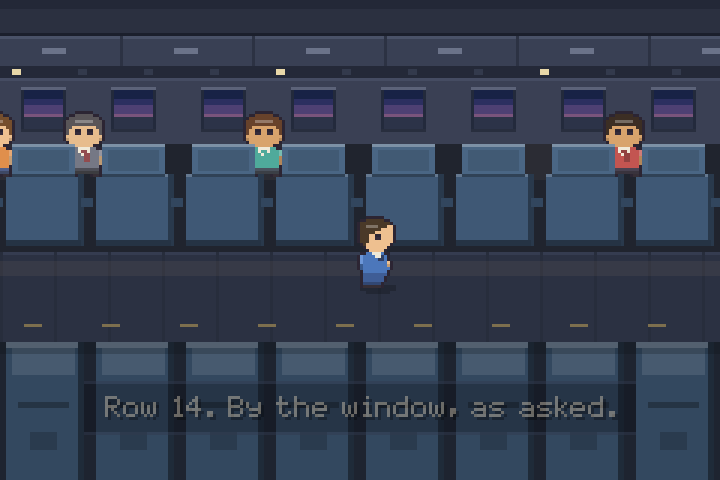
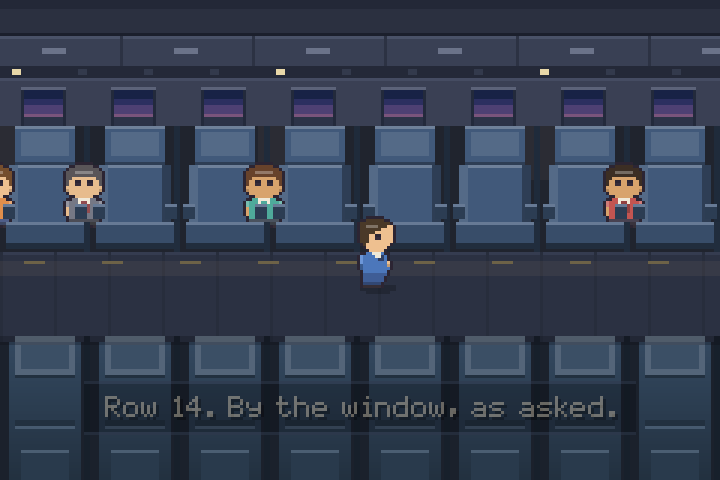
Rebuild the cabin seats so passengers sit in them
The whole far row was drawn behind the passengers in one pass, which put a
featureless slab under everyone and read as a wall rather than as seating.

- The far row is now drawn in two passes with the passenger between them:
  headrest and back behind, cushion and armrests in front of their lap. That
  is what makes someone look seated rather than pasted on.
- Seats gained form: a headrest proud of the back with its own cover, a lit
  bolster on one side and a shadowed one on the other, and a real seam and
  gap between seats. At 26 wide on a 30 pitch they had been butting together.
- The nearest row, seen from behind, was a flat fill that read as lockers. It
  now carries a top-to-bottom gradient, a headrest, a tray seam and a pocket.
- Passengers sit lower so the headrest is behind the head, not through it.
- Aisle strip lighting sat on the lip of the near seats and read as labels on
  them; moved down to the skirting.

diff --git a/dist/rhubarb.html b/dist/rhubarb.html
@@ -3012,7 +3012,7 @@
     // A cabin reads from three bands stacked in depth: portholes behind, a
     // row of headrests with people in them, and the backs of the row nearest
     // camera closing off the bottom of the frame. The aisle is the gap.
-    var BINS = 12, WIN = 26, HEAD = 48, BACK = 58, AISLE = 84, NEAR = 114;
+    var BINS = 12, WIN = 26, HEAD = 42, BACK = 55, AISLE = 84, NEAR = 114;
     var MY_SEAT = 322;
     var PITCH = 30;              // seat pitch, in px
 
@@ -3043,7 +3043,7 @@
     };
 
     function seated(x, pal) {
-      return new RB.Actor({ x: x, y: 41, pal: pal, dir: 'down', sitting: true, shadow: false });
+      return new RB.Actor({ x: x, y: 58, pal: pal, dir: 'down', sitting: true, shadow: false });
     }
 
     s.p = function () { return player; };
@@ -3071,7 +3071,7 @@
         script = new RB.Script(function* () {
           yield RB.call(function () {
             player.sitting = true; player.moving = false; player.dir = 'down';
-            player.x = MY_SEAT; player.y = 41; player.shadow = false;
+            player.x = MY_SEAT; player.y = 58; player.shadow = false;
           });
           yield RB.wait(1.6);
           yield RB.captionFor('You put your head against the glass.', 4.6, 132);
@@ -3127,14 +3127,15 @@
         RB.wrect(px - 1, WIN + 17, 15, 1, '#282e3e');
       }
 
-      // Far row: seat backs with headrests. Passengers are drawn between the
-      // back and the headrest so they sit *in* the seats.
-      farBacks(x0, w);
-      var vis = cast.concat(s.seated ? [] : []);
+      // Far row, seen from the front: shell behind, then the passenger, then
+      // the cushion and armrests in front of their lap. Two passes is what
+      // makes them sit *in* the seat instead of on a slab.
+      farShells(x0, w);
+      var vis = cast.slice();
+      if (s.seated) vis.push(player);
       vis.sort(function (a, b) { return a.x - b.x; });
       vis.forEach(function (a) { a.draw(P.warm4, 0.10); });
-      if (s.seated) player.draw(P.warm4, 0.10);
-      farHeadrests(x0, w);
+      farFronts(x0, w);
 
       // Aisle.
       RB.wrect(x0, AISLE, w, NEAR - AISLE, '#2b3142');
@@ -3143,9 +3144,9 @@
       RB.ctx.globalAlpha = 0.07;
       RB.wrect(x0, AISLE + 3, w, 5, P.warm4);
       RB.ctx.globalAlpha = 1;
-      // Aisle floor strip lighting, low down where it actually is.
+      // Aisle floor strip lighting, down at the skirting where it belongs.
       for (var sx2 = Math.floor(x0 / 26) * 26; sx2 < x0 + w; sx2 += 26) {
-        RB.wrect(sx2 + 6, NEAR - 6, 6, 1, '#7d6f4e');
+        RB.wrect(sx2 + 6, AISLE + 3, 7, 1, '#6d6247');
       }
 
       if (!s.seated) {
@@ -3163,40 +3164,64 @@
       if (s.prompt && !RB.dialog.active()) RB.drawPrompt(MY_SEAT + 6, HEAD - 22, 'Z  sit');
     };
 
-    function farBacks(x0, w) {
-      var c = '#3f5875';
+    // Seat fabric. Three tones plus a seam, and a gap between seats — at
+    // 26 wide on a 30 pitch they used to butt together into a wall.
+    var FAR = '#41597a', NEARC = '#33485f';
+
+    function farShells(x0, w) {
+      var c = FAR, hi = RB.shade(c, 0.24), lo = RB.shade(c, -0.30), seam = RB.shade(c, -0.52);
       for (var x = Math.floor(x0 / PITCH) * PITCH; x < x0 + w; x += PITCH) {
-        RB.wrect(x + 2, BACK, 25, AISLE - BACK - 2, c);
-        RB.wrect(x + 2, BACK, 25, 1, RB.shade(c, 0.20));
-        RB.wrect(x + 26, BACK, 2, AISLE - BACK - 2, RB.shade(c, -0.35));
-        RB.wrect(x + 2, AISLE - 4, 25, 2, RB.shade(c, -0.42));   // seat base
-        RB.wrect(x + 27, BACK + 8, 4, 3, RB.shade(c, -0.2));     // armrest
+        // Headrest, sitting proud of the back with its own cover.
+        RB.wrect(x + 5, HEAD, 20, 13, c);
+        RB.wrect(x + 5, HEAD, 20, 1, hi);
+        RB.wrect(x + 7, HEAD + 2, 16, 8, RB.shade(c, 0.10));
+        RB.wrect(x + 5, HEAD + 12, 20, 1, lo);
+        // Back, with a lit bolster on one side and a shadowed one on the other.
+        RB.wrect(x + 3, BACK, 24, 22, c);
+        RB.wrect(x + 3, BACK, 24, 1, hi);
+        RB.wrect(x + 3, BACK, 3, 22, RB.shade(c, 0.10));
+        RB.wrect(x + 24, BACK, 3, 22, lo);
+        RB.wrect(x + 28, HEAD, 2, AISLE - HEAD, seam);
       }
     }
 
-    function farHeadrests(x0, w) {
-      var c = '#4a6684';
+    function farFronts(x0, w) {
+      var c = FAR, hi = RB.shade(c, 0.20), lo = RB.shade(c, -0.32), lo2 = RB.shade(c, -0.50);
       for (var x = Math.floor(x0 / PITCH) * PITCH; x < x0 + w; x += PITCH) {
-        RB.wrect(x + 4, HEAD, 21, 11, c);
-        RB.wrect(x + 4, HEAD, 21, 1, RB.shade(c, 0.28));
-        RB.wrect(x + 4, HEAD + 10, 21, 1, RB.shade(c, -0.35));
-        RB.wrect(x + 6, HEAD + 2, 17, 7, RB.shade(c, -0.12));    // antimacassar
+        // Seat cushion across the lap, then the armrests either side.
+        RB.wrect(x + 2, 74, 26, 8, RB.shade(c, -0.14));
+        RB.wrect(x + 2, 74, 26, 1, hi);
+        RB.wrect(x + 2, 81, 26, 2, lo2);
+        RB.wrect(x + 1, 68, 4, 5, lo);
+        RB.wrect(x + 1, 68, 4, 1, hi);
+        RB.wrect(x + 25, 68, 4, 5, lo);
+        RB.wrect(x + 25, 68, 4, 1, hi);
+        RB.wrect(x + 28, 74, 2, 10, lo2);
       }
     }
 
+    // The nearest row, from behind. A flat fill read as lockers, so the back
+    // carries a top-to-bottom gradient, a tray seam and a pocket.
     function nearBacks(x0, w) {
-      var c = '#33485f';
-      RB.wrect(x0, NEAR, w, RB.H - NEAR, '#1e2430');
+      var c = NEARC, hi = RB.shade(c, 0.26), lo = RB.shade(c, -0.34), seam = RB.shade(c, -0.55);
+      var h = RB.H - NEAR;
+      RB.wrect(x0, NEAR, w, h, '#1b212c');
       for (var x = Math.floor(x0 / PITCH) * PITCH; x < x0 + w; x += PITCH) {
-        RB.wrect(x + 2, NEAR, 25, RB.H - NEAR, c);
-        RB.wrect(x + 2, NEAR, 25, 2, RB.shade(c, 0.26));          // headrest top
-        RB.wrect(x + 4, NEAR + 2, 21, 9, RB.shade(c, 0.10));
-        RB.wrect(x + 26, NEAR, 2, RB.H - NEAR, RB.shade(c, -0.4));
-        RB.wrect(x + 6, NEAR + 20, 17, 2, RB.shade(c, -0.28));    // tray latch
-        RB.wrect(x + 10, NEAR + 30, 9, 6, RB.shade(c, -0.18));    // seat pocket
+        for (var i = 0; i < h; i++) {
+          RB.wrect(x + 3, NEAR + i, 24, 1, RB.mix(c, RB.shade(c, -0.34), i / h));
+        }
+        RB.wrect(x + 5, NEAR - 2, 20, 14, RB.shade(c, 0.16));      // headrest
+        RB.wrect(x + 5, NEAR - 2, 20, 2, hi);
+        RB.wrect(x + 7, NEAR + 1, 16, 8, RB.shade(c, 0.04));       // cover
+        RB.wrect(x + 5, NEAR + 11, 20, 1, lo);
+        RB.wrect(x + 5, NEAR + 26, 20, 2, lo);                     // tray seam
+        RB.wrect(x + 5, NEAR + 28, 20, 1, RB.shade(c, 0.10));
+        RB.wrect(x + 7, NEAR + 36, 16, 10, RB.shade(c, -0.20));    // seat pocket
+        RB.wrect(x + 7, NEAR + 36, 16, 1, RB.shade(c, 0.12));
+        RB.wrect(x + 28, NEAR - 2, 2, h + 2, seam);
       }
-      RB.ctx.globalAlpha = 0.22;
-      RB.wrect(x0, NEAR, w, 4, '#0b0d14');
+      RB.ctx.globalAlpha = 0.26;
+      RB.wrect(x0, NEAR - 2, w, 3, '#0b0d14');
       RB.ctx.globalAlpha = 1;
     }
 

diff --git a/src/scenes_flight.js b/src/scenes_flight.js
@@ -11,7 +11,7 @@
     // A cabin reads from three bands stacked in depth: portholes behind, a
     // row of headrests with people in them, and the backs of the row nearest
     // camera closing off the bottom of the frame. The aisle is the gap.
-    var BINS = 12, WIN = 26, HEAD = 48, BACK = 58, AISLE = 84, NEAR = 114;
+    var BINS = 12, WIN = 26, HEAD = 42, BACK = 55, AISLE = 84, NEAR = 114;
     var MY_SEAT = 322;
     var PITCH = 30;              // seat pitch, in px
 
@@ -42,7 +42,7 @@
     };
 
     function seated(x, pal) {
-      return new RB.Actor({ x: x, y: 41, pal: pal, dir: 'down', sitting: true, shadow: false });
+      return new RB.Actor({ x: x, y: 58, pal: pal, dir: 'down', sitting: true, shadow: false });
     }
 
     s.p = function () { return player; };
@@ -70,7 +70,7 @@
         script = new RB.Script(function* () {
           yield RB.call(function () {
             player.sitting = true; player.moving = false; player.dir = 'down';
-            player.x = MY_SEAT; player.y = 41; player.shadow = false;
+            player.x = MY_SEAT; player.y = 58; player.shadow = false;
           });
           yield RB.wait(1.6);
           yield RB.captionFor('You put your head against the glass.', 4.6, 132);
@@ -126,14 +126,15 @@
         RB.wrect(px - 1, WIN + 17, 15, 1, '#282e3e');
       }
 
-      // Far row: seat backs with headrests. Passengers are drawn between the
-      // back and the headrest so they sit *in* the seats.
-      farBacks(x0, w);
-      var vis = cast.concat(s.seated ? [] : []);
+      // Far row, seen from the front: shell behind, then the passenger, then
+      // the cushion and armrests in front of their lap. Two passes is what
+      // makes them sit *in* the seat instead of on a slab.
+      farShells(x0, w);
+      var vis = cast.slice();
+      if (s.seated) vis.push(player);
       vis.sort(function (a, b) { return a.x - b.x; });
       vis.forEach(function (a) { a.draw(P.warm4, 0.10); });
-      if (s.seated) player.draw(P.warm4, 0.10);
-      farHeadrests(x0, w);
+      farFronts(x0, w);
 
       // Aisle.
       RB.wrect(x0, AISLE, w, NEAR - AISLE, '#2b3142');
@@ -142,9 +143,9 @@
       RB.ctx.globalAlpha = 0.07;
       RB.wrect(x0, AISLE + 3, w, 5, P.warm4);
       RB.ctx.globalAlpha = 1;
-      // Aisle floor strip lighting, low down where it actually is.
+      // Aisle floor strip lighting, down at the skirting where it belongs.
       for (var sx2 = Math.floor(x0 / 26) * 26; sx2 < x0 + w; sx2 += 26) {
-        RB.wrect(sx2 + 6, NEAR - 6, 6, 1, '#7d6f4e');
+        RB.wrect(sx2 + 6, AISLE + 3, 7, 1, '#6d6247');
       }
 
       if (!s.seated) {
@@ -162,40 +163,64 @@
       if (s.prompt && !RB.dialog.active()) RB.drawPrompt(MY_SEAT + 6, HEAD - 22, 'Z  sit');
     };
 
-    function farBacks(x0, w) {
-      var c = '#3f5875';
+    // Seat fabric. Three tones plus a seam, and a gap between seats — at
+    // 26 wide on a 30 pitch they used to butt together into a wall.
+    var FAR = '#41597a', NEARC = '#33485f';
+
+    function farShells(x0, w) {
+      var c = FAR, hi = RB.shade(c, 0.24), lo = RB.shade(c, -0.30), seam = RB.shade(c, -0.52);
       for (var x = Math.floor(x0 / PITCH) * PITCH; x < x0 + w; x += PITCH) {
-        RB.wrect(x + 2, BACK, 25, AISLE - BACK - 2, c);
-        RB.wrect(x + 2, BACK, 25, 1, RB.shade(c, 0.20));
-        RB.wrect(x + 26, BACK, 2, AISLE - BACK - 2, RB.shade(c, -0.35));
-        RB.wrect(x + 2, AISLE - 4, 25, 2, RB.shade(c, -0.42));   // seat base
-        RB.wrect(x + 27, BACK + 8, 4, 3, RB.shade(c, -0.2));     // armrest
+        // Headrest, sitting proud of the back with its own cover.
+        RB.wrect(x + 5, HEAD, 20, 13, c);
+        RB.wrect(x + 5, HEAD, 20, 1, hi);
+        RB.wrect(x + 7, HEAD + 2, 16, 8, RB.shade(c, 0.10));
+        RB.wrect(x + 5, HEAD + 12, 20, 1, lo);
+        // Back, with a lit bolster on one side and a shadowed one on the other.
+        RB.wrect(x + 3, BACK, 24, 22, c);
+        RB.wrect(x + 3, BACK, 24, 1, hi);
+        RB.wrect(x + 3, BACK, 3, 22, RB.shade(c, 0.10));
+        RB.wrect(x + 24, BACK, 3, 22, lo);
+        RB.wrect(x + 28, HEAD, 2, AISLE - HEAD, seam);
       }
     }
 
-    function farHeadrests(x0, w) {
-      var c = '#4a6684';
+    function farFronts(x0, w) {
+      var c = FAR, hi = RB.shade(c, 0.20), lo = RB.shade(c, -0.32), lo2 = RB.shade(c, -0.50);
       for (var x = Math.floor(x0 / PITCH) * PITCH; x < x0 + w; x += PITCH) {
-        RB.wrect(x + 4, HEAD, 21, 11, c);
-        RB.wrect(x + 4, HEAD, 21, 1, RB.shade(c, 0.28));
-        RB.wrect(x + 4, HEAD + 10, 21, 1, RB.shade(c, -0.35));
-        RB.wrect(x + 6, HEAD + 2, 17, 7, RB.shade(c, -0.12));    // antimacassar
+        // Seat cushion across the lap, then the armrests either side.
+        RB.wrect(x + 2, 74, 26, 8, RB.shade(c, -0.14));
+        RB.wrect(x + 2, 74, 26, 1, hi);
+        RB.wrect(x + 2, 81, 26, 2, lo2);
+        RB.wrect(x + 1, 68, 4, 5, lo);
+        RB.wrect(x + 1, 68, 4, 1, hi);
+        RB.wrect(x + 25, 68, 4, 5, lo);
+        RB.wrect(x + 25, 68, 4, 1, hi);
+        RB.wrect(x + 28, 74, 2, 10, lo2);
       }
     }
 
+    // The nearest row, from behind. A flat fill read as lockers, so the back
+    // carries a top-to-bottom gradient, a tray seam and a pocket.
     function nearBacks(x0, w) {
-      var c = '#33485f';
-      RB.wrect(x0, NEAR, w, RB.H - NEAR, '#1e2430');
+      var c = NEARC, hi = RB.shade(c, 0.26), lo = RB.shade(c, -0.34), seam = RB.shade(c, -0.55);
+      var h = RB.H - NEAR;
+      RB.wrect(x0, NEAR, w, h, '#1b212c');
       for (var x = Math.floor(x0 / PITCH) * PITCH; x < x0 + w; x += PITCH) {
-        RB.wrect(x + 2, NEAR, 25, RB.H - NEAR, c);
-        RB.wrect(x + 2, NEAR, 25, 2, RB.shade(c, 0.26));          // headrest top
-        RB.wrect(x + 4, NEAR + 2, 21, 9, RB.shade(c, 0.10));
-        RB.wrect(x + 26, NEAR, 2, RB.H - NEAR, RB.shade(c, -0.4));
-        RB.wrect(x + 6, NEAR + 20, 17, 2, RB.shade(c, -0.28));    // tray latch
-        RB.wrect(x + 10, NEAR + 30, 9, 6, RB.shade(c, -0.18));    // seat pocket
+        for (var i = 0; i < h; i++) {
+          RB.wrect(x + 3, NEAR + i, 24, 1, RB.mix(c, RB.shade(c, -0.34), i / h));
+        }
+        RB.wrect(x + 5, NEAR - 2, 20, 14, RB.shade(c, 0.16));      // headrest
+        RB.wrect(x + 5, NEAR - 2, 20, 2, hi);
+        RB.wrect(x + 7, NEAR + 1, 16, 8, RB.shade(c, 0.04));       // cover
+        RB.wrect(x + 5, NEAR + 11, 20, 1, lo);
+        RB.wrect(x + 5, NEAR + 26, 20, 2, lo);                     // tray seam
+        RB.wrect(x + 5, NEAR + 28, 20, 1, RB.shade(c, 0.10));
+        RB.wrect(x + 7, NEAR + 36, 16, 10, RB.shade(c, -0.20));    // seat pocket
+        RB.wrect(x + 7, NEAR + 36, 16, 1, RB.shade(c, 0.12));
+        RB.wrect(x + 28, NEAR - 2, 2, h + 2, seam);
       }
-      RB.ctx.globalAlpha = 0.22;
-      RB.wrect(x0, NEAR, w, 4, '#0b0d14');
+      RB.ctx.globalAlpha = 0.26;
+      RB.wrect(x0, NEAR - 2, w, 3, '#0b0d14');
       RB.ctx.globalAlpha = 1;
     }
 
